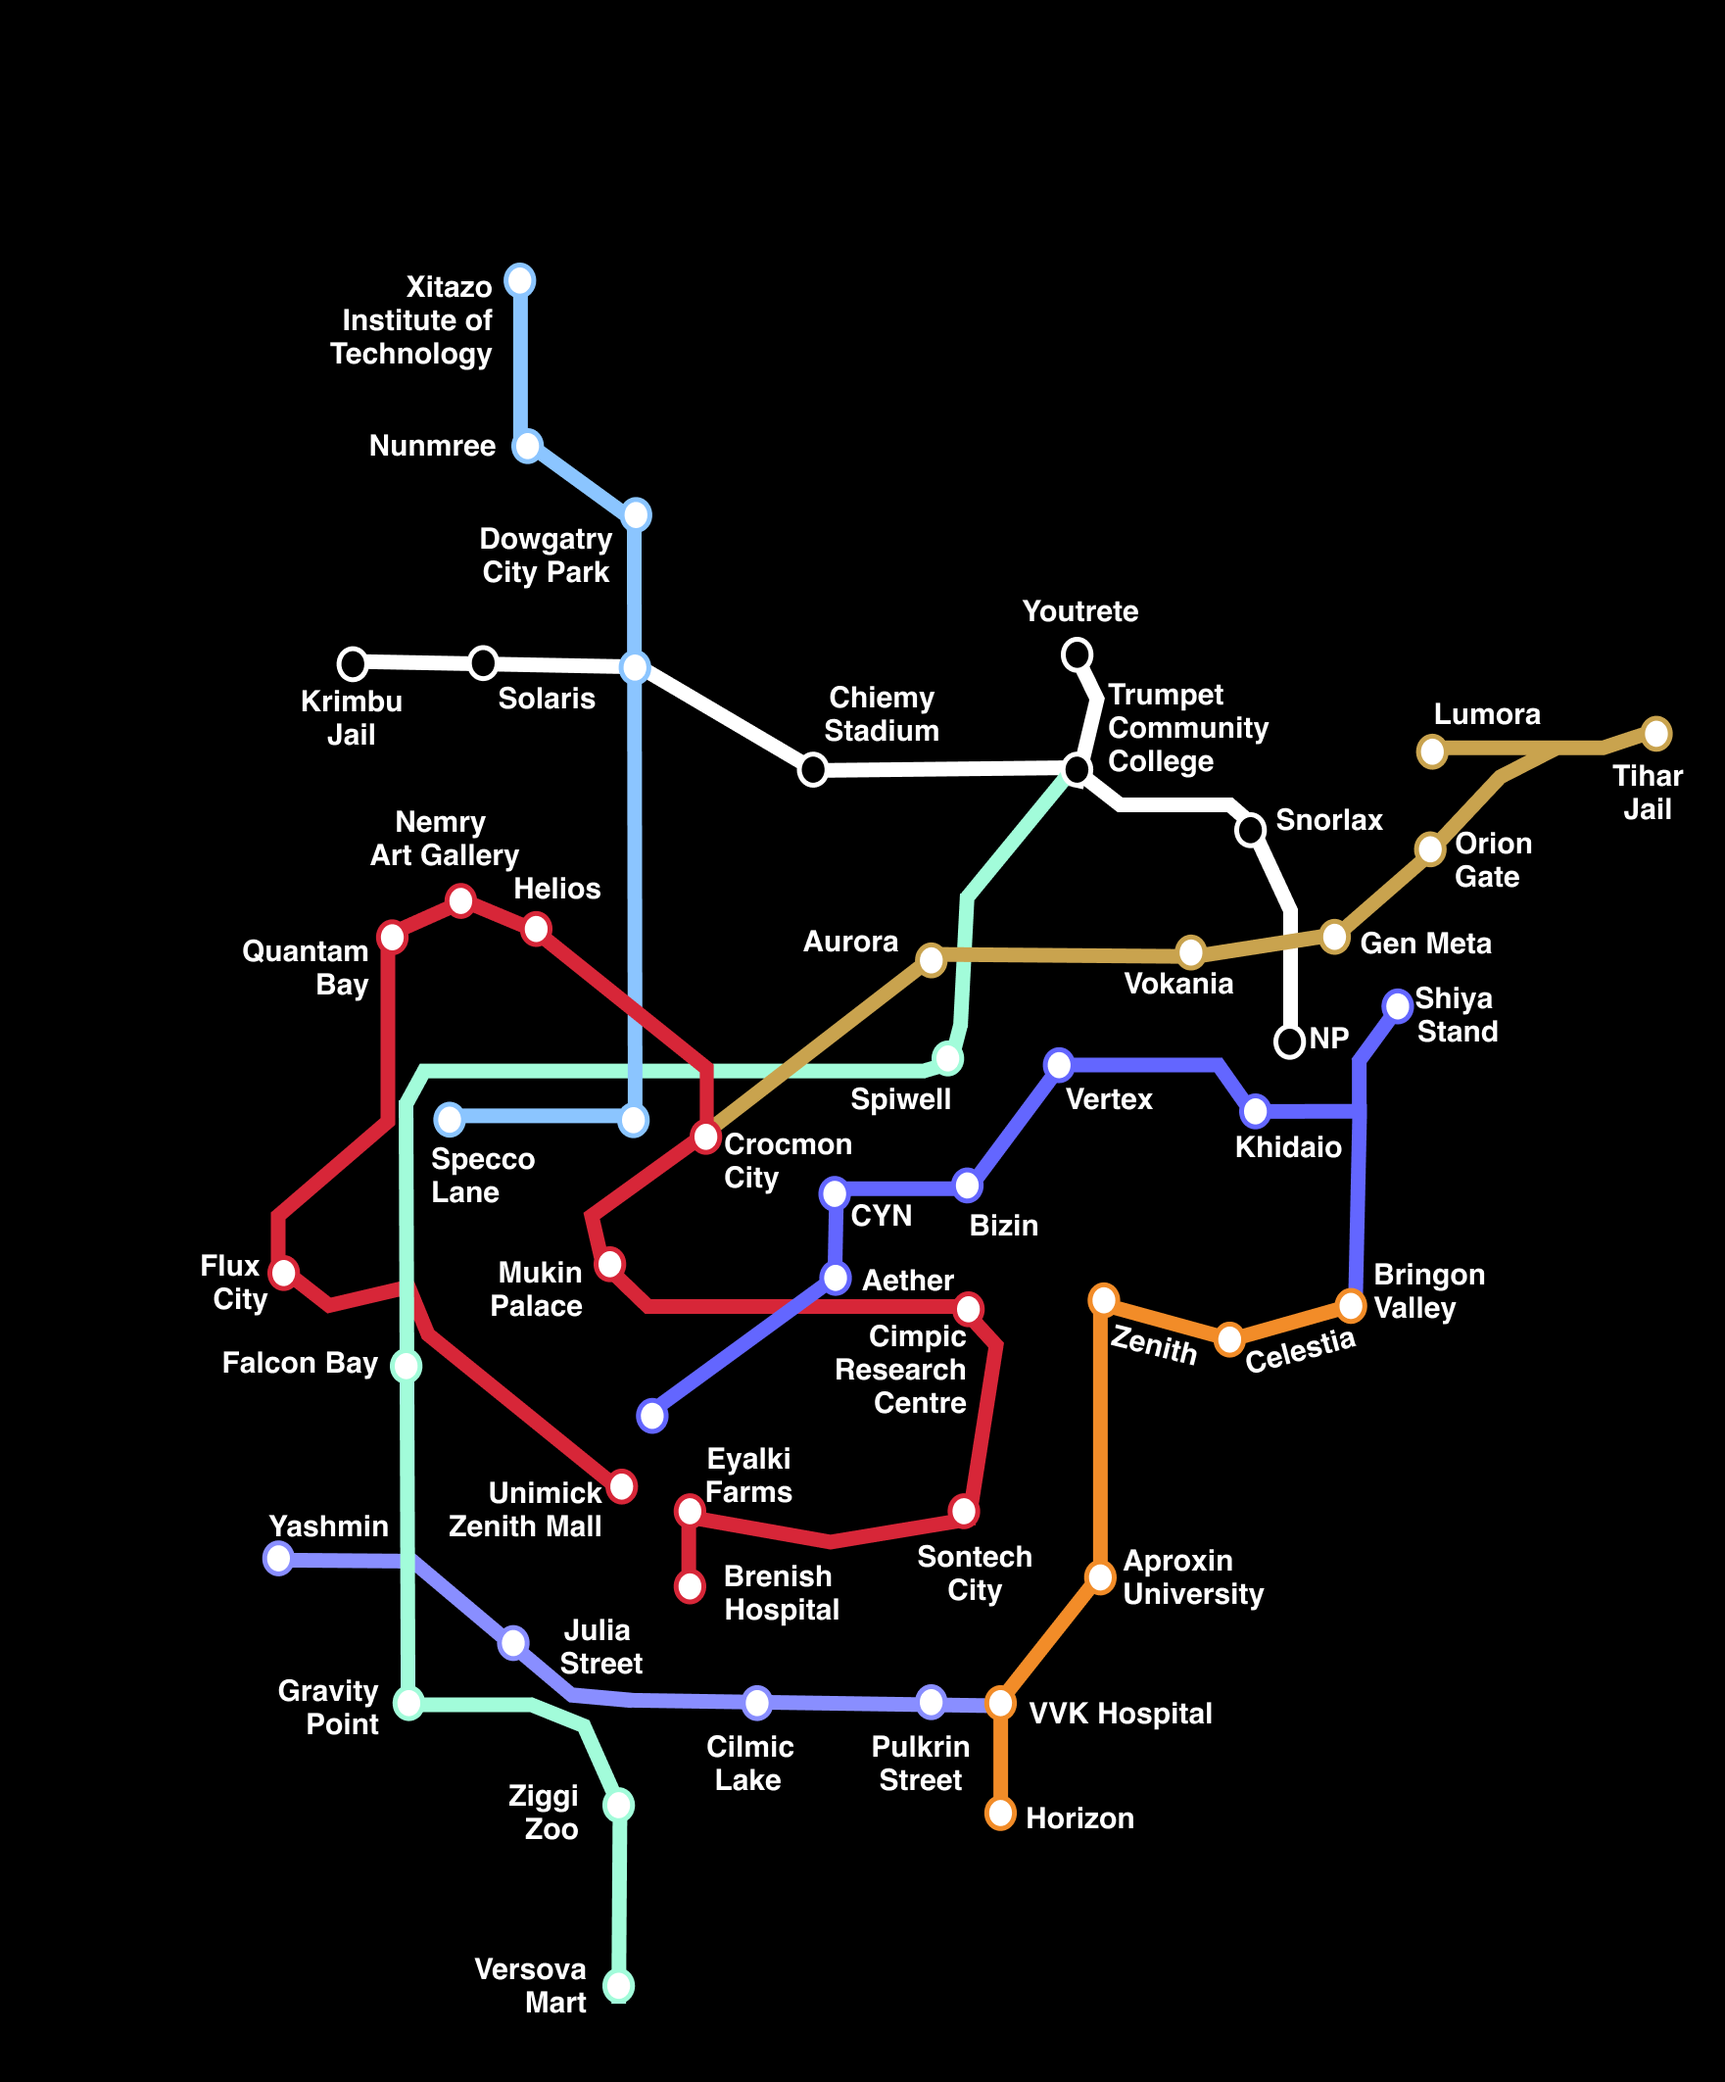
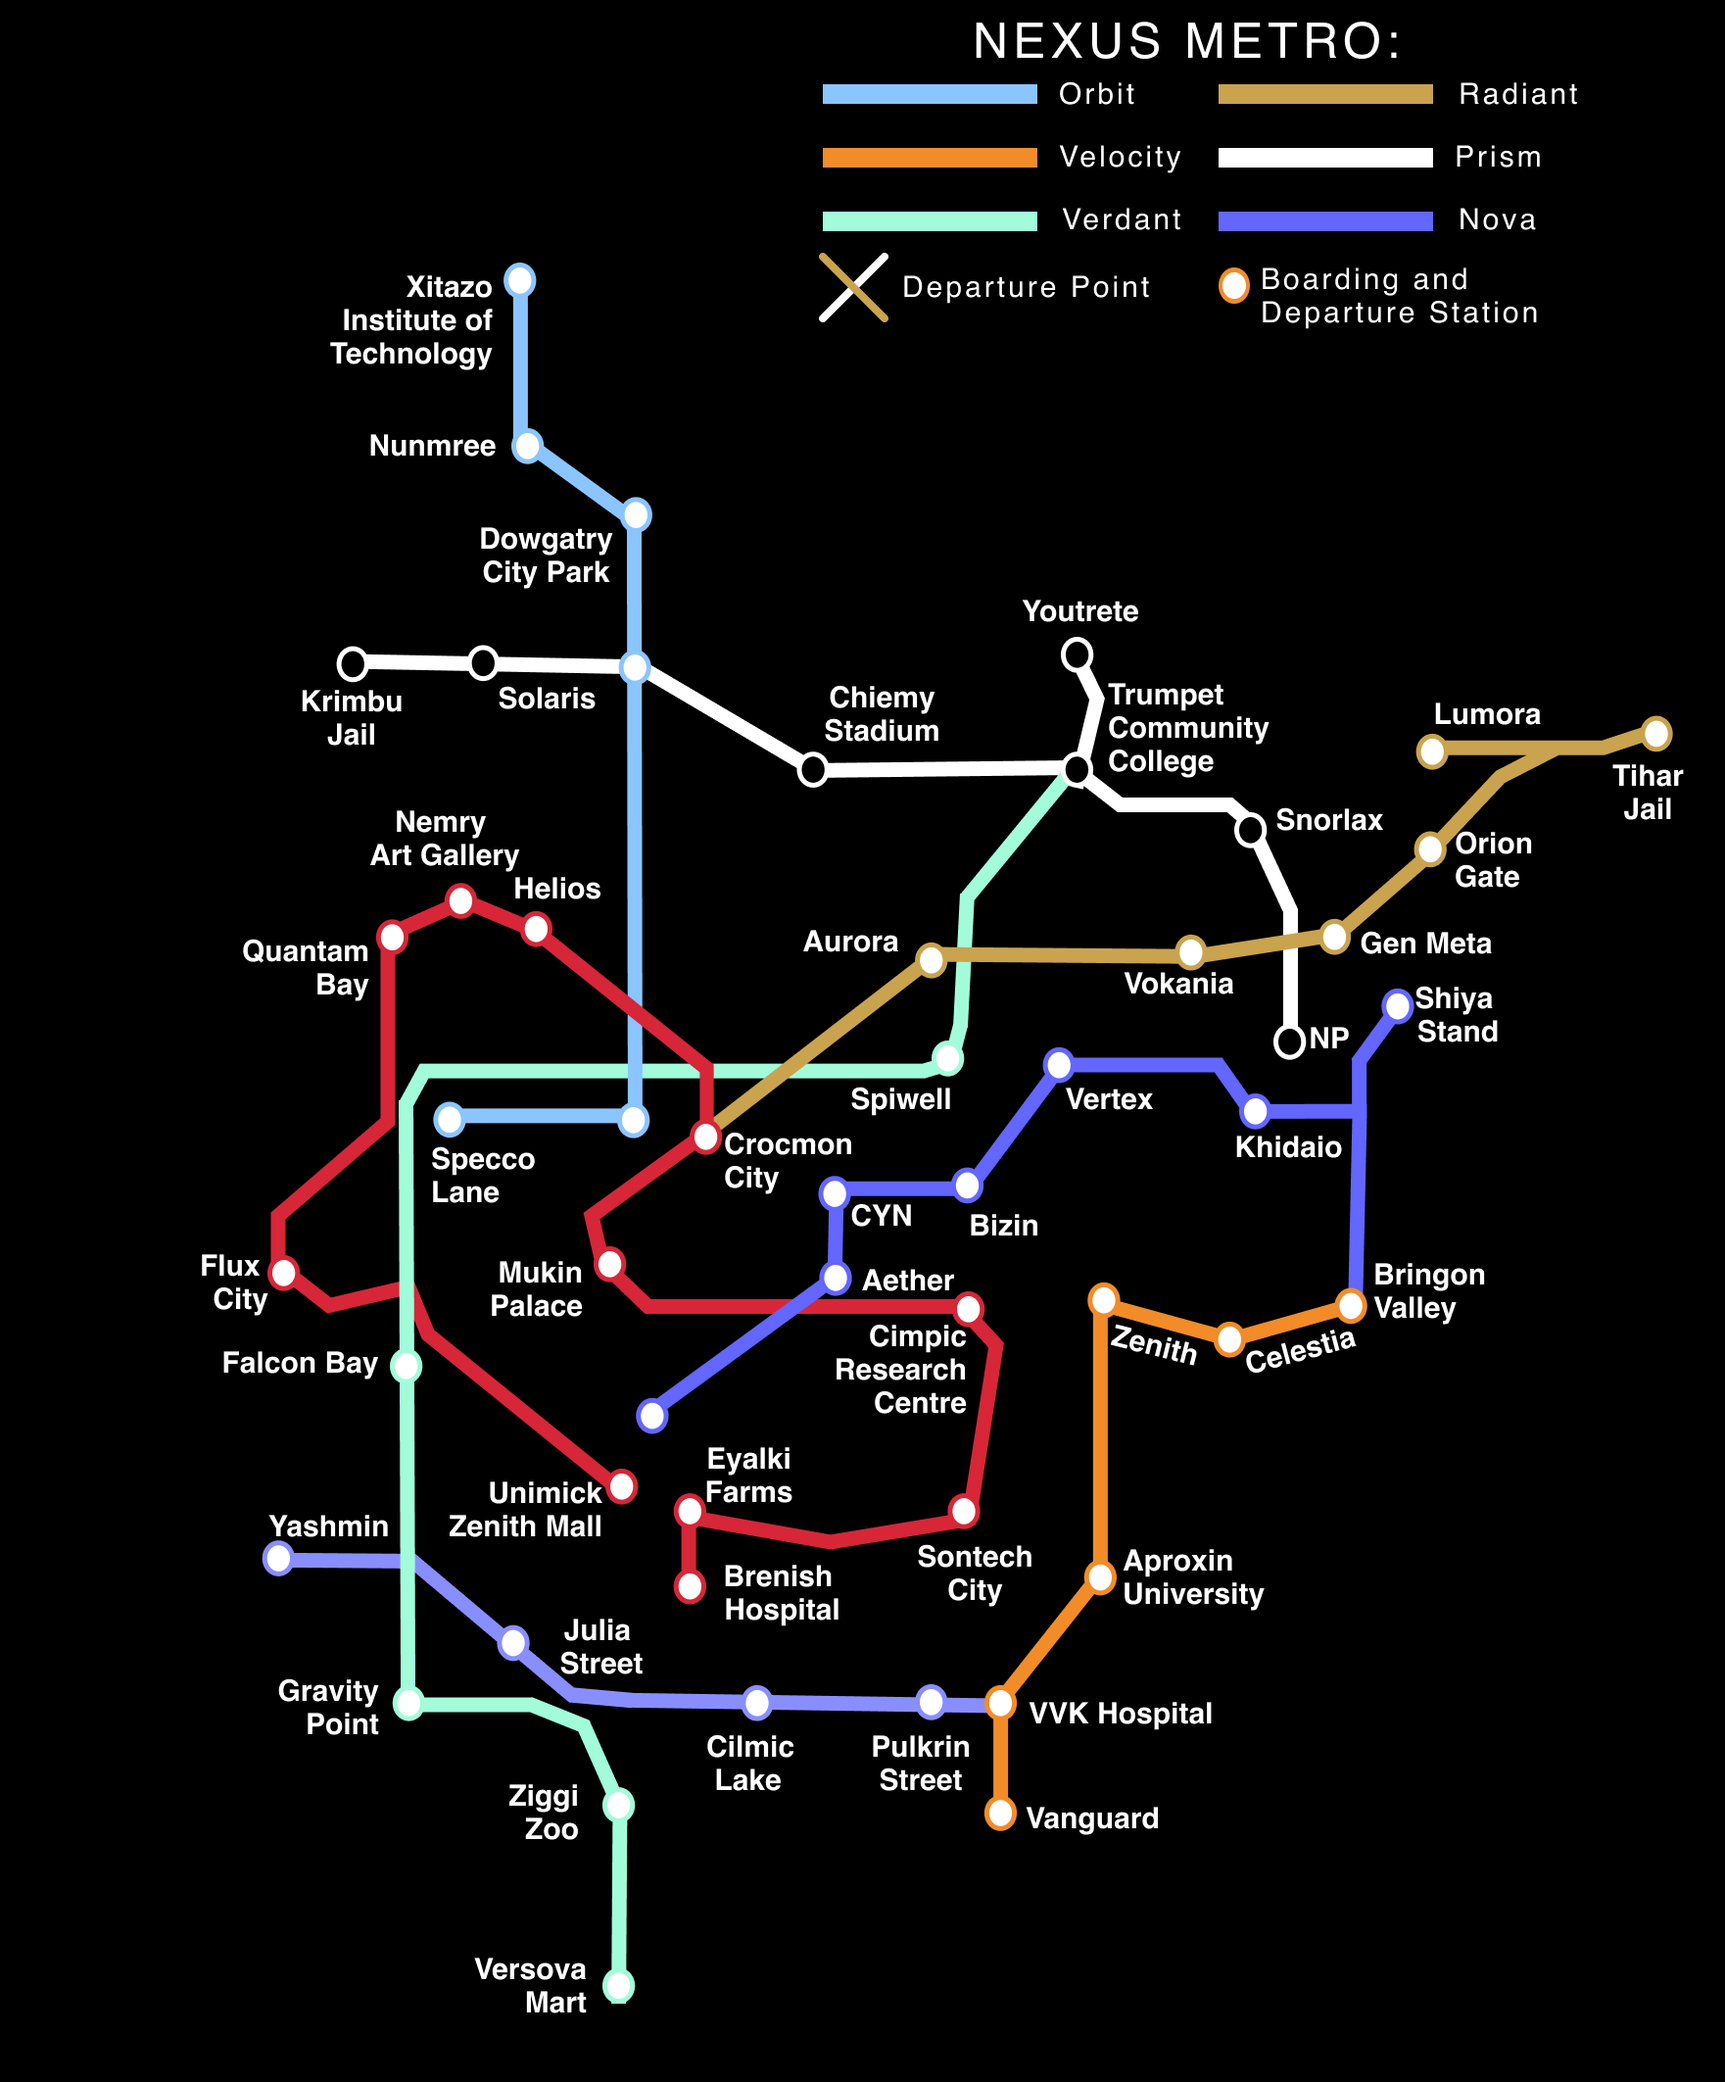
feat: completed booking ui and added more features to user home page

Changed region(s): [[0.4685, 0.0, 0.9057, 0.1553], [0.5934, 0.8696, 0.6559, 0.9007]]

diff --git a/src/routes/account/+page.svelte b/src/routes/account/+page.svelte
@@ -1,6 +1,10 @@
 <script lang="ts">
+	import { Modal, Content, Trigger } from 'sv-popup';
 	import { onMount } from 'svelte';
 	import { goto } from '$app/navigation';
+
+	// replace with name from signup form later
+	let name = $state('User');
 
 	onMount(() => {
 		if (!document.cookie.includes('loggedIn=true')) {
@@ -12,8 +16,10 @@
 	});
 </script>
 
-<main class="p-12 bg-black text-white min-h-screen">
-	<p class="text-3xl font-bold">Namaste Passenger!</p>
+<main class="p-12 bg-[#111111] text-white min-h-screen">
+	<p class="text-3xl font-bold">
+		Namaste, <br /> <span class="text-[#6366FF] text-5xl">{name}</span>
+	</p>
 	<p class="text-xl">Where would you like to go today?</p>
 	<div class="mt-5 flex items-center w-full h-12 rounded-4xl border-2 px-1">
 		<input
@@ -21,8 +27,57 @@
 			placeholder="Aurora"
 		/>
 		<button class="rounded-4xl bg-[#6366FF] h-9 w-11 material-symbols-outlined"
-			>arrow_forward</button
+			><a href="/booking" class="text-white">arrow_forward</a></button
 		>
 	</div>
-	<img src="/startlocation.png" alt="Where you are right now" class="mt-10 rounded-xl" />
+	<Modal>
+		<Content>
+			<h2>
+				<img src="/map.png" alt="Map" class="rounded-xl" />
+			</h2>
+		</Content>
+		<Trigger>
+			<button>
+				<img src="/startlocation.png" alt="Where you are right now" class="mt-10 rounded-xl" />
+			</button>
+		</Trigger>
+	</Modal>
+	<div>
+		<div class="rounded-xl w-full mt-5 bg-[#222222]">
+			<div class="text-center p-3">
+				<p class="text-xl flex items-center justify-between">
+					<span>Aurora</span>
+					<span class="material-symbols-outlined">arrow_forward</span>
+					<span>Orion Gate</span>
+				</p>
+				<p class="flex items-center justify-between mt-1">
+					<span>09:00 AM</span>
+					<span>09:45 AM</span>
+				</p>
+			</div>
+			<p class="text-s text-gray-400 ml-3">19 Sept • 1 Passenger • Economy</p>
+			<button class="bg-[#6366FF] text-white py-2 px-4 rounded-4xl mt-2 ml-3 mb-2"
+				><a href="/booking" class="text-white">Buy Ticket Now</a></button
+			>
+			<span class="ml-69 text-xs rounded-lg bg-[#6366FF] text-white p-1">20% Discount!</span>
+		</div>
+		<div class="rounded-xl w-full mt-5 bg-[#222222]">
+			<div class="text-center p-3">
+				<p class="text-xl flex items-center justify-between">
+					<span>Aurora</span>
+					<span class="material-symbols-outlined">arrow_forward</span>
+					<span>Volcania</span>
+				</p>
+				<p class="flex items-center justify-between mt-1">
+					<span>09:00 AM</span>
+					<span>09:20 AM</span>
+				</p>
+			</div>
+			<p class="text-s text-gray-400 ml-3">20 Sept • 1 Passenger • Economy</p>
+			<button class="bg-[#6366FF] text-white py-2 px-4 rounded-4xl mt-2 ml-3 mb-2"
+				><a href="/booking" class="text-white">Buy Ticket Now</a></button
+			>
+			<span class="ml-69 text-xs rounded-lg bg-[#6366FF] text-white p-1">25% Discount!</span>
+		</div>
+	</div>
 </main>

diff --git a/src/routes/booking/+page.svelte b/src/routes/booking/+page.svelte
@@ -44,40 +44,44 @@
 
 <main class="bg-[#cfe7ff] flex h-screen">
 	<a href="/account"
-		><span class="material-symbols-outlined mt-2 ml-2" style="font-size: 3rem;">arrow_back</span></a
+		><span class="material-symbols-outlined mt-1 ml-1" style="font-size: 3rem;">arrow_back</span></a
 	>
 	<aside class="w-64 p-4">
-		<p class="text-4xl font-bold mt-20">Choose <br /> Seats</p>
+		<p class="text-4xl font-bold mt-10">Choose <br /> Seats</p>
 		<br />
-		<div class="flex flex-col gap-2 mt-4">
+		<div class="flex flex-col gap-2">
 			<button
-				class="w-20 h-22 overflow-hidden"
+				class="w-19 h-21 overflow-hidden"
 				onclick={() => selectCarriage('start', trainStartEl)}
 				><img
 					src={selectedCarriage === 'start' ? '/trainstart_o1.png' : '/trainstart_o.png'}
-					class="w-20"
+					class="w-19"
 					alt="yes"
 				/></button
 			>
-			<button class="w-20 h-22 overflow-hidden" onclick={() => selectCarriage('mid', trainMidEl)}
+			<button class="w-19 h-21 overflow-hidden" onclick={() => selectCarriage('mid', trainMidEl)}
 				><img
 					src={selectedCarriage === 'mid' ? '/trainmid_o1.png' : '/trainmid_o.png'}
-					class="w-20"
+					class="w-19"
 					alt="yes2"
 				/></button
 			>
-			<button class="w-20 h-22 overflow-hidden" onclick={() => selectCarriage('end', trainEndEl)}
+			<button class="w-19 h-21 overflow-hidden" onclick={() => selectCarriage('end', trainEndEl)}
 				><img
 					src={selectedCarriage === 'end' ? '/trainend_o1.png' : '/trainend_o.png'}
-					class="w-20"
+					class="w-19"
 					alt="yes3"
 				/></button
 			>
 		</div>
-		<p class="mt-10 text-4xl">Seats</p>
-		<p class="text-3xl mt-2 text-[#6366ff]">{bookedSeats.length}</p>
-		<p class="mt-15 text-4xl">Amount</p>
-		<p class="text-3xl mt-2 text-[#6366ff]">₹{bookedSeats.length * 60}</p>
+		<p class="mt-7 text-3xl">Seats</p>
+		<p class="text-2xl mt-1 text-[#6366ff]">{bookedSeats.length}</p>
+		<p class="mt-7 text-3xl">Amount</p>
+		<p class="text-2xl mt-1 text-[#6366ff]">₹{bookedSeats.length * 60}</p>
+		<img src="seats.png" class="mt-2" />
+		<button class="bg-[#6366FF] text-white py-2 px-4 rounded-4xl mt-5 ml-3 mb-2"
+			>Confirm Seats</button
+		>
 	</aside>
 	<section class="flex-1 overflow-y-auto p-4 mt-10">
 		<div class="relative w-32 ml-auto">
@@ -85,7 +89,7 @@
 				bind:this={trainStartEl}
 				src="/trainstart.png"
 				alt="TrainStart"
-				class="mt-10 rounded-xl w-32 ml-auto"
+				class="rounded-xl w-32 ml-auto"
 			/>
 			<button
 				onclick={() => toggleSeat(1)}
